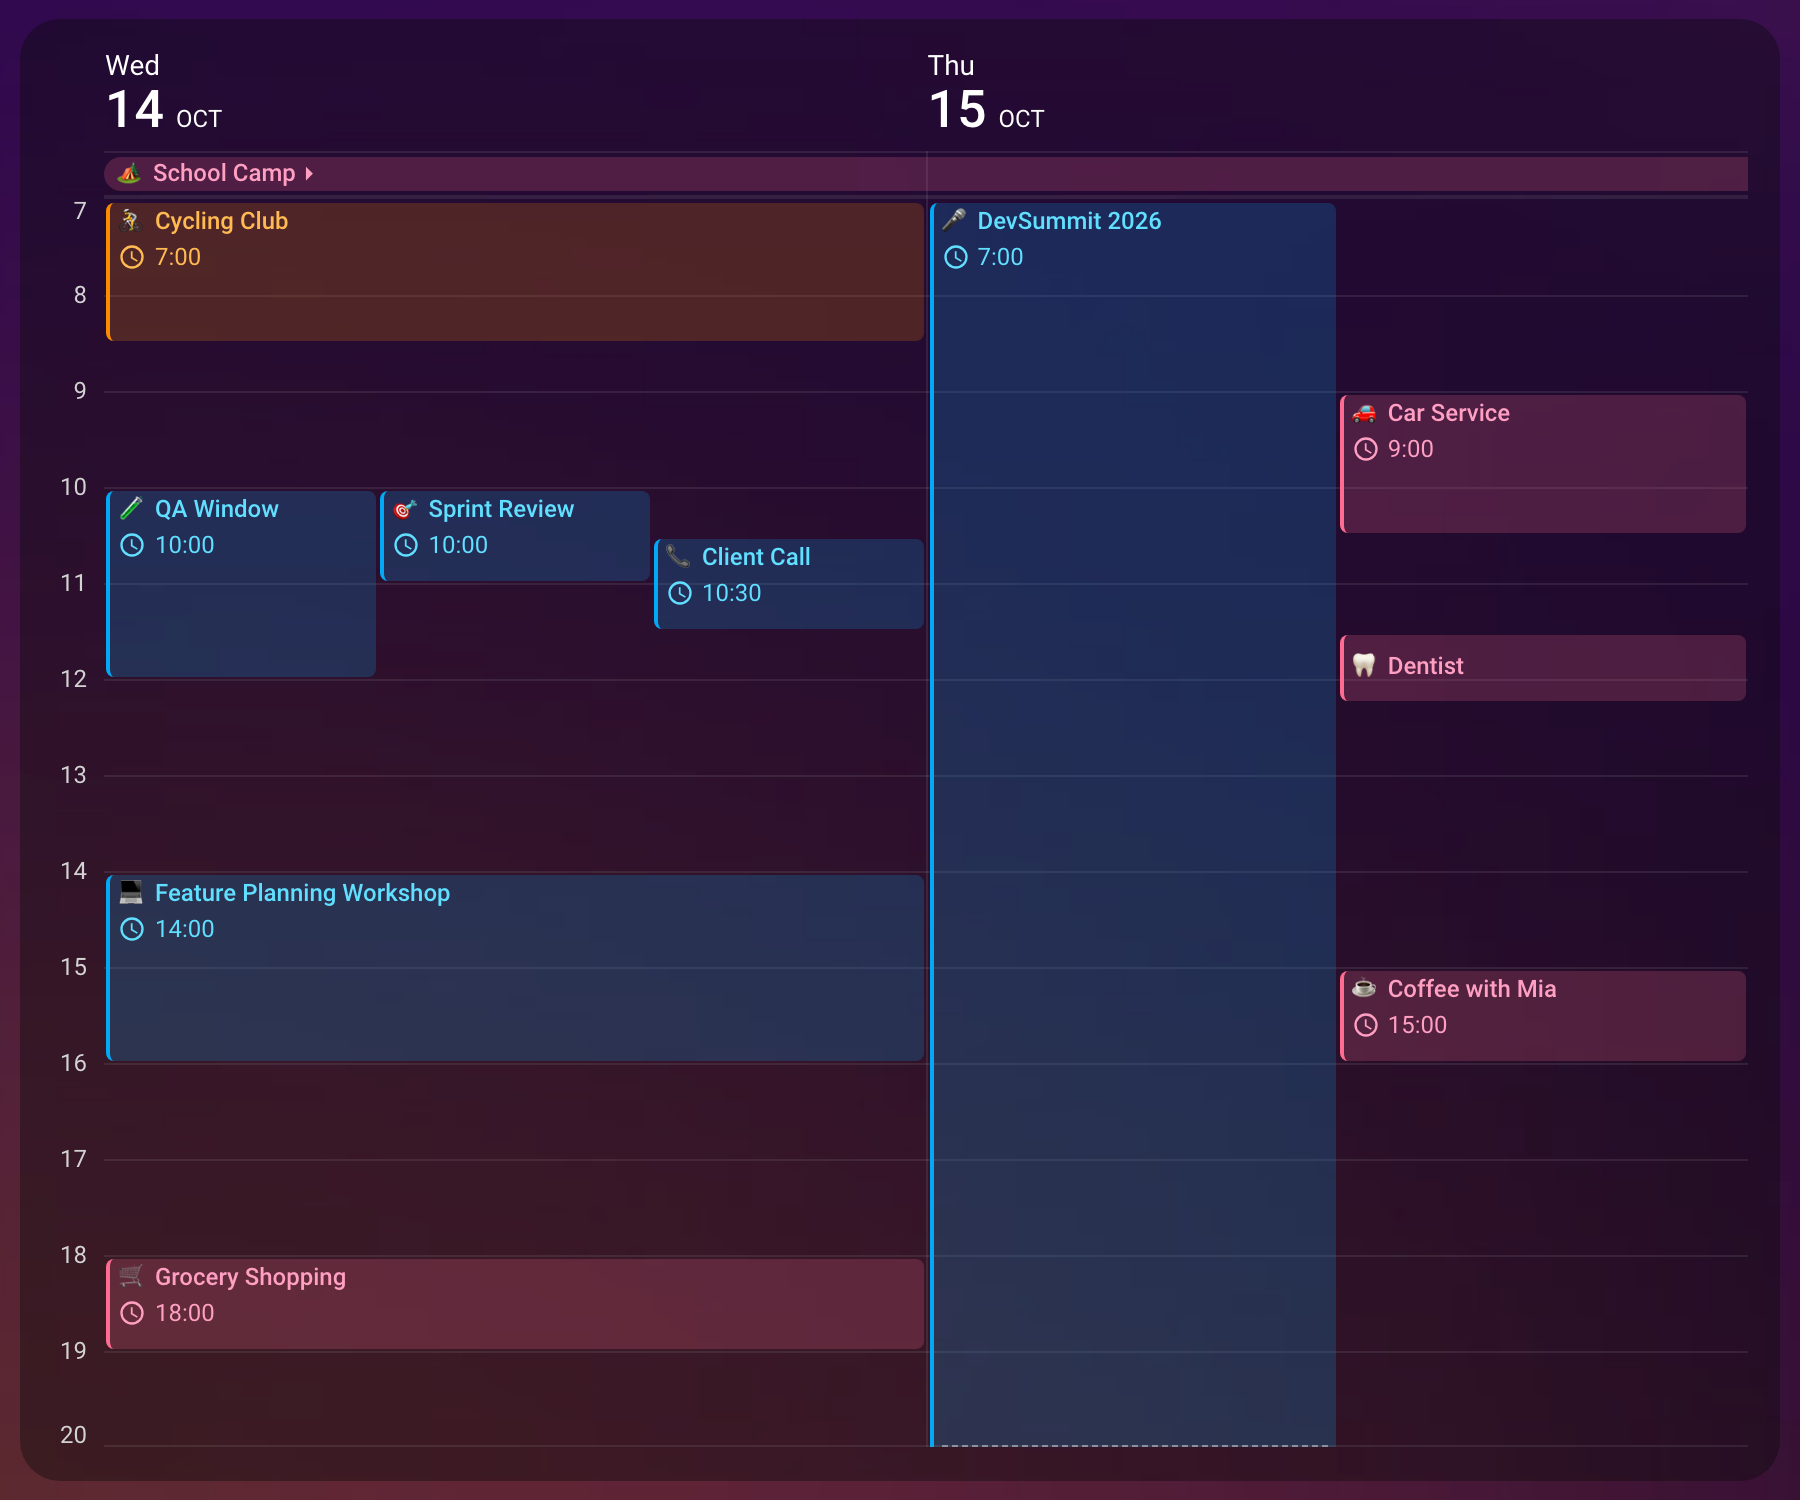
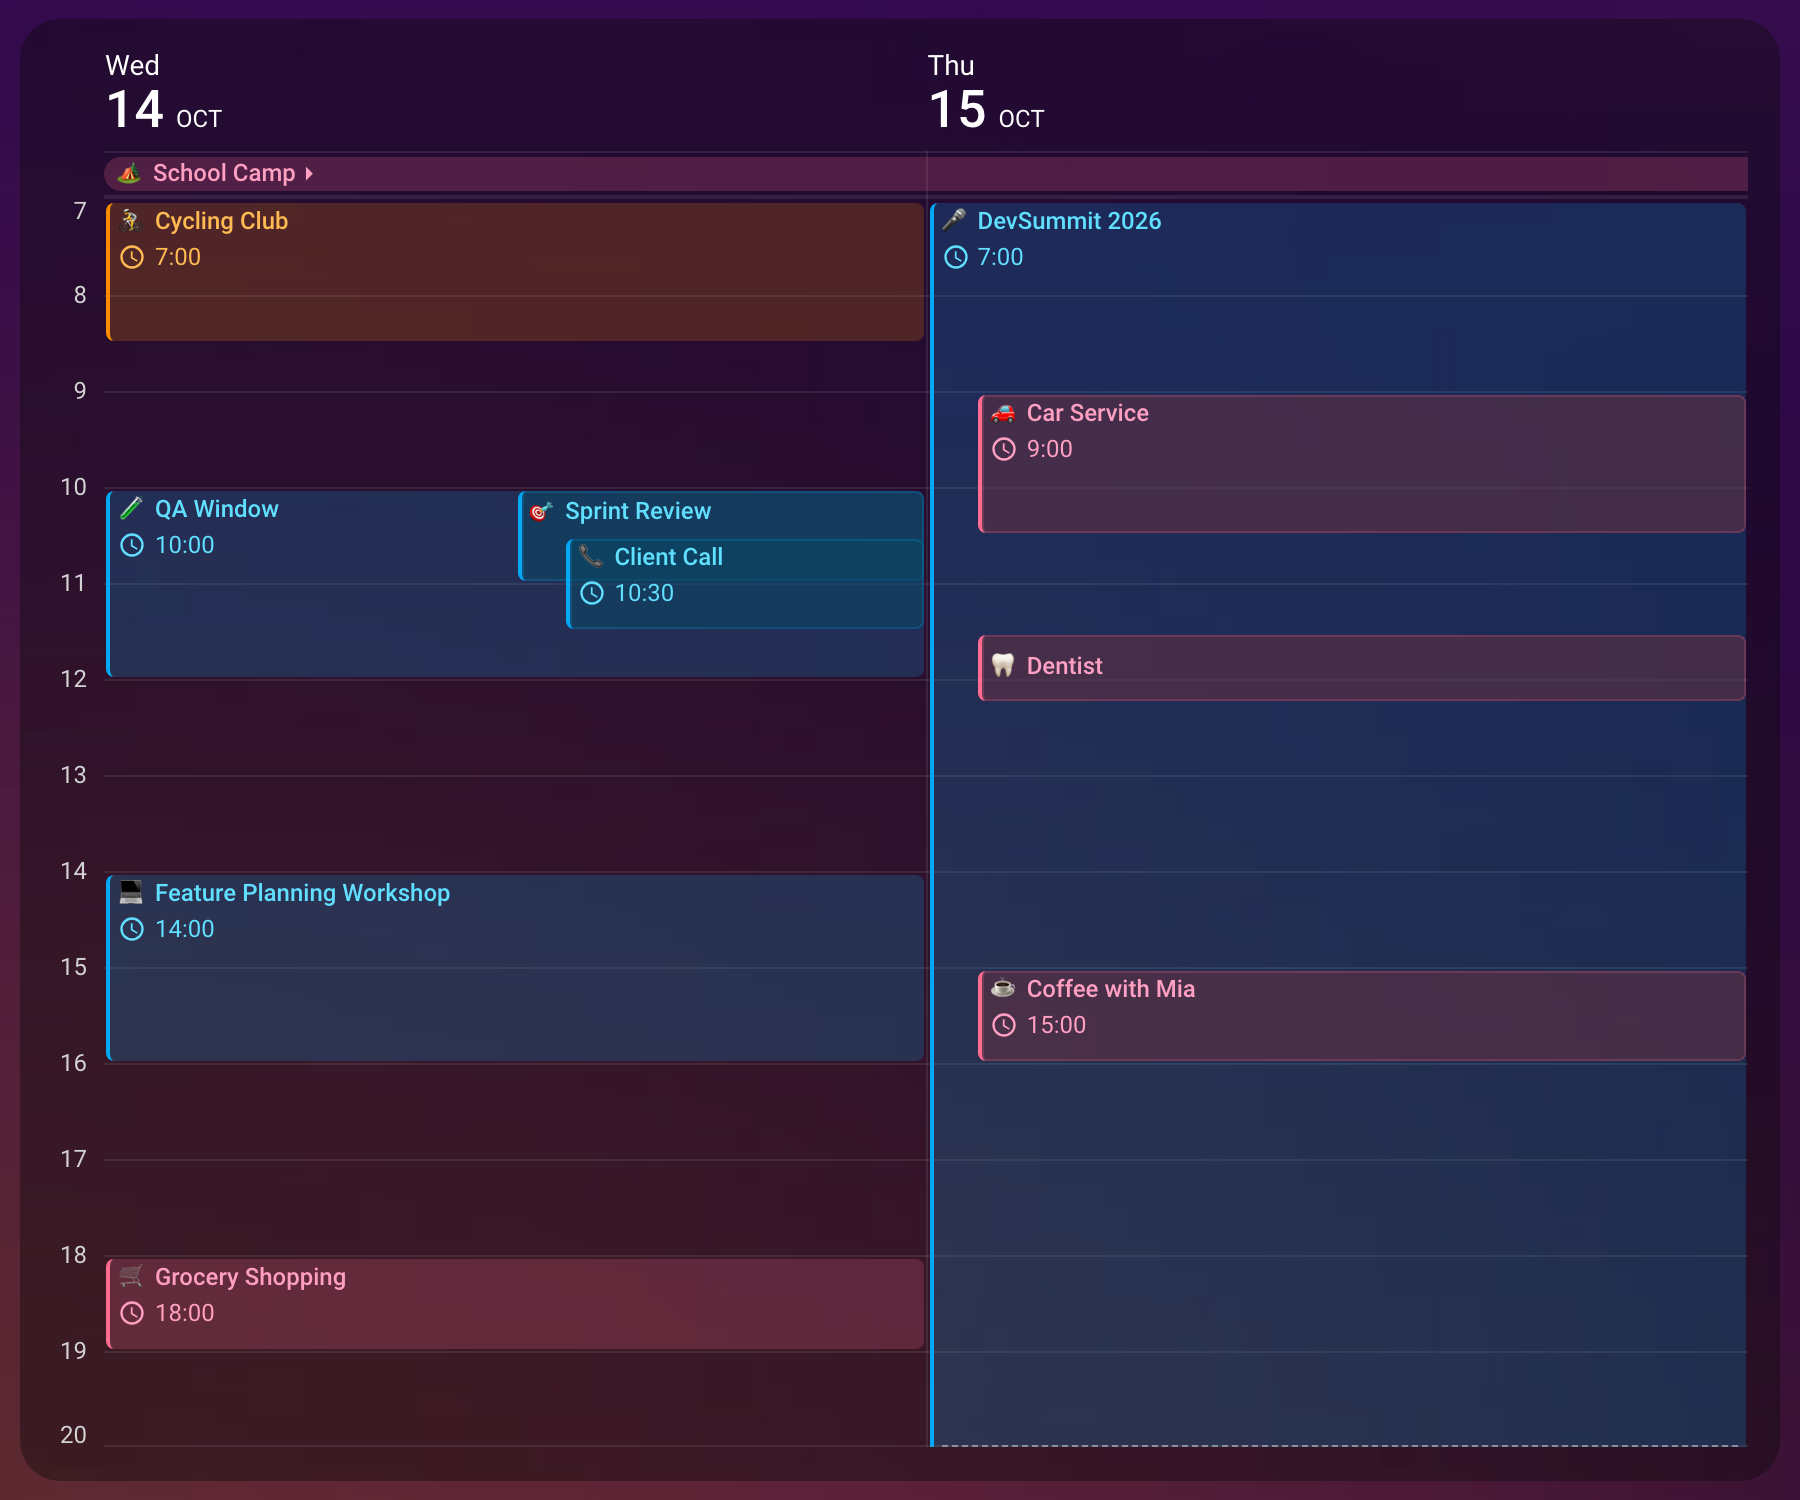
docs(img): retake the grid screenshots, and pair the overlaps image
Every grid image moved: stacked blocks now carry their outline, the +N
block is a narrow strip, and the now line is emerald. The overlaps image
now comes as a pair.

- example_grid_overlaps.png is the stacked default: on Wednesday two
  events that start together share the width and a third is drawn on top
  of one of them; on Thursday the errands sit on top of the conference.
- example_grid_overlaps_columns.png is new: the same card with
  overlap_layout: columns, which "Side by Side Instead" now shows.
- example_grid_hours.png uses the default 48px hour, so Client Call is
  drawn on top of Sprint Review instead of being counted in a +1.
- example_grid_3day.png shows Client Call on top of QA Window and a
  narrow +1, where a half-width +2 used to stand.
- Both theme shots changed only where blocks stack.

Shots without a now line were pinned to Sunday 2026-10-11 20:00, ahead
of the week. The week, week_medium and complete shots were pinned to
Monday 2026-10-12 12:10. The complete image's weather still stops at
Friday, the forecast horizon on the day of the retake.

Copilot-Session: 017805ad-0520-4eae-a12e-62664eb24ade

Changed region(s): [[0.1867, 0.1227, 0.9956, 0.9813]]

diff --git a/docs/features/grid-view.md b/docs/features/grid-view.md
@@ -398,6 +398,12 @@ Events that start together are drawn side by side instead, because both need the
 the top for their titles. The longer one comes first, and once the shorter one is over, the
 longer one has the full width again for anything that starts inside it later.
 
+<img src="https://raw.githubusercontent.com/alexpfau/calendar-card-pro/main/.github/img/example_grid_overlaps.png" alt="A grid card with overlapping events stacked: on Wednesday two events that start together share the width and a third is drawn on top of one of them; on Thursday three errands are drawn on top of a day-long conference"><br>
+
+On Wednesday, QA Window and Sprint Review start together and share the width, and Client Call,
+half an hour later, is drawn on top of Sprint Review. On Thursday the errands sit on top of the
+conference, a little indented, so its title stays readable above them and its edge beside them.
+
 ### When an Event Is Drawn on Top
 
 On a card at the default size, "well inside" means at least half an hour below the longer
@@ -447,10 +453,10 @@ time_grid:
   overlap_layout: columns
 ```
 
-<img src="https://raw.githubusercontent.com/alexpfau/calendar-card-pro/main/.github/img/example_grid_overlaps.png" alt="A grid card drawn with overlap_layout: columns, showing three simultaneous events side by side on one day, beside a two-lane conference day"><br>
+<img src="https://raw.githubusercontent.com/alexpfau/calendar-card-pro/main/.github/img/example_grid_overlaps_columns.png" alt="The same grid card drawn with overlap_layout: columns, showing three simultaneous events side by side on one day, beside a two-lane conference day"><br>
 
-Side by side, three events at once share Wednesday's column, while Thursday's conference runs
-two lanes wide. Each lane narrows rather than hiding anything.
+The same two days side by side. Three events at once share Wednesday's column, and Thursday's
+conference keeps half the width all day. Each lane narrows rather than hiding anything.
 
 ### How Many Fit Side by Side
 
